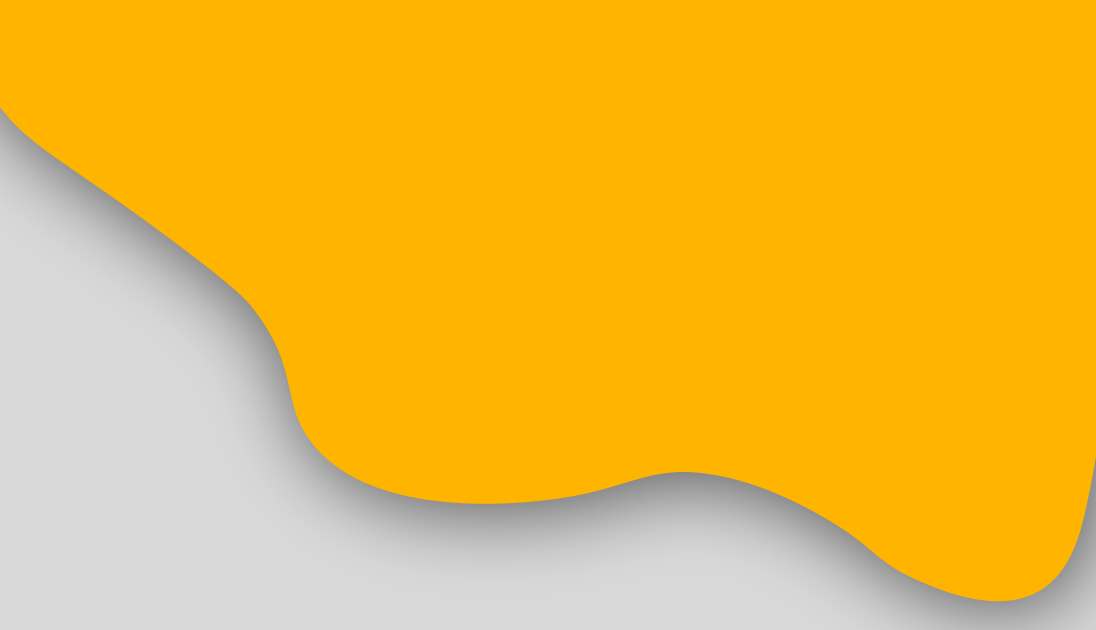
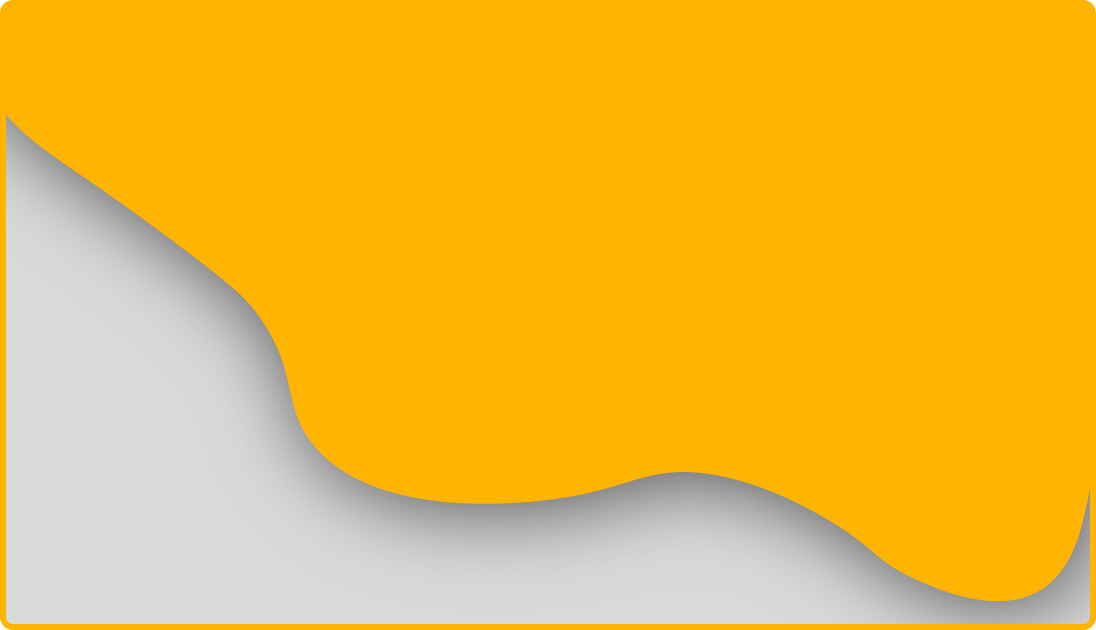
Rounded Welcome

Changed region(s): [[0.0, 0.181, 1.0, 1.0], [0.9927, 0.0, 1.0, 0.0302]]

diff --git a/src/maingame/Welcomepage.java b/src/maingame/Welcomepage.java
@@ -102,7 +102,7 @@ public class Welcomepage {
 		});
 		playbtn.setBorderPainted(false);
 		playbtn.setContentAreaFilled(false);
-		playbtn.setBounds(573, 112, 407, 402);
+		playbtn.setBounds(589, 240, 407, 402);
 		frame.getContentPane().add(playbtn);
 		
 		// Code Vision Studios logo -------------------------------------------------------------------------------------------------------------
@@ -224,7 +224,7 @@ public class Welcomepage {
 		
 		// background image --------------------------------------------------------------------------------------------------------------------
 		JLabel background = new JLabel("");
-		Image img = new ImageIcon(this.getClass().getResource("/welcomeback.png")).getImage();
+		Image img = new ImageIcon(this.getClass().getResource("/aaaa.png")).getImage();
 		background.setIcon(new ImageIcon(img));
 		background.setBounds(0, 0, 1096, 630);
 		frame.getContentPane().add(background);	
